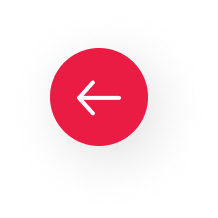
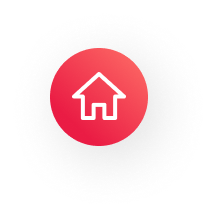
Fix font and update back button

Changed region(s): [[0.2752, 0.2202, 0.6881, 0.633]]

diff --git a/src/Tile.css b/src/Tile.css
@@ -42,7 +42,7 @@
 }
 
 .overlay-text {
-  font-family: open sans;
+  font-family: 'Open Sans', sans-serif;
   color: #333333;
   font-size: 14px;
   line-height: 160%;
